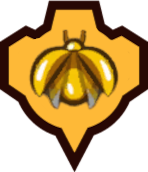
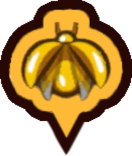
Add new simple marker images and update sprite provider mappings

diff --git a/src/Randomizer/SpriteProvider/File/FileSpriteProvider.cs b/src/Randomizer/SpriteProvider/File/FileSpriteProvider.cs
@@ -15,14 +15,19 @@ public class FileSpriteProvider : ISpriteProvider
         { "Archipelago", new SpriteFileData("archipelago.png", 128, 128, 0.7f) },
         { "ArchipelagoArrowUp", new SpriteFileData("archipelago_arrow_up.png", 128, 128, 0.7f) },
         { "ArchipelagoGrayscale", new SpriteFileData("archipelago_grayscale.png", 128, 128, 0.7f) },
-        { "Scarab", new SpriteFileData("scarab.png", 108, 108)},
-        { "Spirit", new SpriteFileData("spirit.png", 51, 73)},
+        { "LocationMarkerSimple", new SpriteFileData("location_marker_simple.png", 116, 180)},
         { "LocationMarker", new SpriteFileData("location_marker.png", 116, 180)},
+        { "NpcMarkerSimple", new SpriteFileData("npc_marker_simple.png", 148, 172)},
         { "NpcMarker", new SpriteFileData("npc_marker.png", 148, 172)},
-        { "ScarabMarker", new SpriteFileData("scarab_marker.png", 148, 172)},
+        { "Scarab", new SpriteFileData("scarab.png", 108, 108)},
+        { "ScarabMarkerSimple", new SpriteFileData("scarab_marker_simple.png", 132, 156)},
+        { "ScarabMarker", new SpriteFileData("scarab_marker.png", 132, 156)},
+        { "SkullMarkerSimple", new SpriteFileData("skull_marker_simple.png", 160, 188) },
+        { "SkullMarker", new SpriteFileData("skull_marker.png", 160, 188) },
+        { "Spirit", new SpriteFileData("spirit.png", 51, 73)},
+        { "SpiritMarkerSimple", new SpriteFileData("spirit_marker_simple.png", 148, 172)},
         { "SpiritMarker", new SpriteFileData("spirit_marker.png", 148, 172)},
         { "SuperCrystal", new SpriteFileData("super_crystal.png", 92, 92, 1f, -20f) },
-        { "SkullMarker", new SpriteFileData("skull_marker.png", 160, 188) },
     };
 
     public FileSpriteProvider(ISpriteProvider innerProvider, string rootPath)
